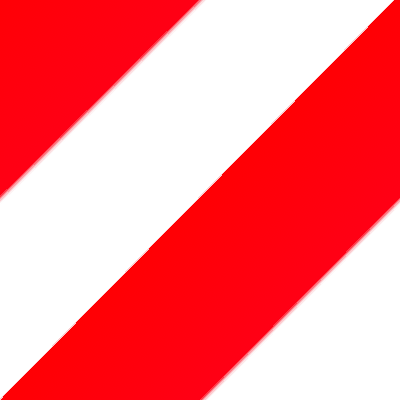
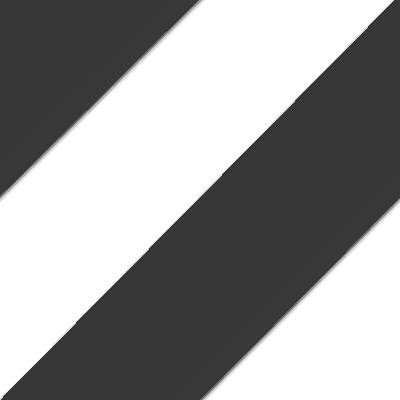
make candycane.png be grayscale switch example from a sphere to a plane add sand texture to pulsing stripes texture to produce the final color

diff --git a/oceantest/test2.js b/oceantest/test2.js
@@ -16,6 +16,8 @@ import {StandardNodeMaterial,
     TimerNode,
     NodeFrame,
     TextureNode,
+    CondNode,
+    ConstNode,
 } from "./node_modules/three/examples/jsm/nodes/Nodes.js"
 import {System, World} from "./node_modules/ecsy/build/ecsy.module.js"
 import {oneWorldTick, startWorldLoop, ThreeCore, ThreeSystem, toRad} from "./threesystem.js"
@@ -137,12 +139,31 @@ function setupNodeMaterial(core, world) {
 
     // material.color = new TextureNode( tex1);
     let blend = new MathNode(
-        tex1,
-        tex2,
-        new FloatNode(.5),
+        new TextureNode(tex1),
+        new TextureNode(tex2),
+        new FloatNode(.9),
         MathNode.MIX
     );
-    material.color = blend
+
+    let speed = new FloatNode( 0.1 );
+    let timeSpeed = new OperatorNode(
+        time,
+        speed,
+        OperatorNode.MUL
+    );
+    let sinCycleInSecs = new OperatorNode(
+        timeSpeed,
+        new ConstNode( ConstNode.PI2 ),
+        OperatorNode.MUL
+    )
+    let cycle = new MathNode(sinCycleInSecs, MathNode.SIN)
+    let color = new TextureNode(tex1)
+    let cycleColor = new OperatorNode(cycle,color,OperatorNode.MUL)
+    material.color = new OperatorNode(
+        new TextureNode(tex2),
+        new MathNode(cycleColor, MathNode.ABS),
+        OperatorNode.ADD
+    )
     // material.metalness = new FloatNode( 0.0 );
     // material.roughness = new FloatNode( 1.0 );
 
@@ -172,11 +193,12 @@ class CustomNodeMaterialSystem extends System {
         this.queries.objs.added.forEach(ent => {
             const comp = ent.getComponent(CustomNodeMaterial)
             const mesh = new Mesh(
-                new SphereBufferGeometry(1),
+                new PlaneBufferGeometry(20,20),
                 comp.material,
             )
             mesh.position.z = -10
             mesh.position.y = 2
+            mesh.rotation.x = toRad(-45)
             this.queries.three.results.forEach(ent => {
                 const core = ent.getComponent(ThreeCore)
                 core.getStage().add(mesh)
